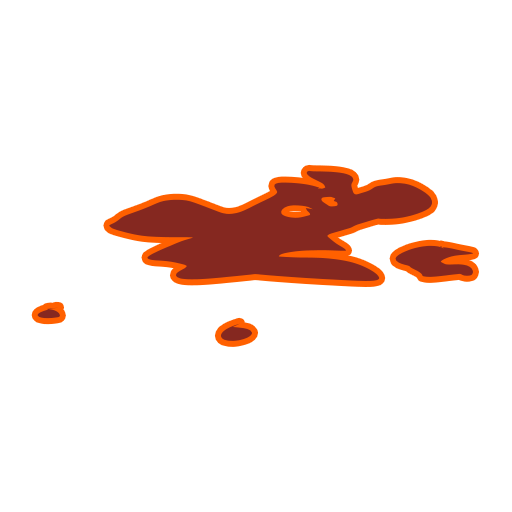
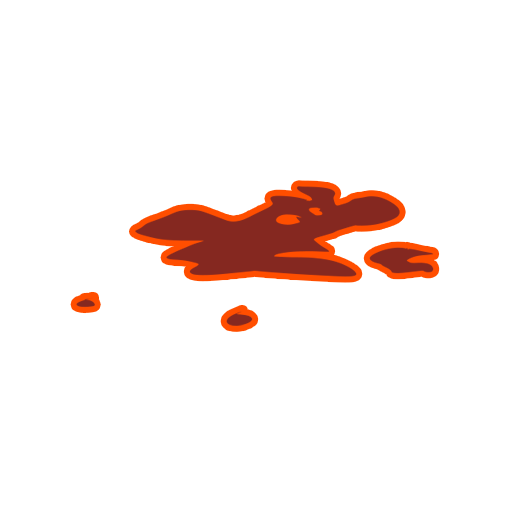
Cursors now working. Art is updated. disabled hiding of item dialog (temporarily?)

Changed region(s): [[0.1875, 0.3125, 0.9375, 0.5625], [0.0625, 0.5625, 0.2188, 0.6562], [0.4062, 0.5938, 0.5, 0.6875]]

diff --git a/FinalProject/kitchenscene.cpp b/FinalProject/kitchenscene.cpp
@@ -17,7 +17,6 @@ KitchenScene::KitchenScene(QWidget *parent, Model* model) :
     setupConnections();
     setupPixmaps();
 
-
 }
 
 KitchenScene::~KitchenScene()
@@ -41,8 +40,22 @@ void KitchenScene::setupConnections(){
     connect(ui->toolbarWidget->oxiclean, &CleaningToolView::toolClickedSignal, model, &Model::toolClickedSlot);
     connect(ui->toolbarWidget->nailpolish_remover, &CleaningToolView::toolClickedSignal, model, &Model::toolClickedSlot);
 
+    connect(model, &Model::setSelectedTool, ui->toolbarWidget->glove, &CleaningToolView::setSelectedSlot);
+    connect(model, &Model::setSelectedTool, ui->toolbarWidget->rag, &CleaningToolView::setSelectedSlot);
+    connect(model, &Model::setSelectedTool, ui->toolbarWidget->bleach, &CleaningToolView::setSelectedSlot);
+    connect(model, &Model::setSelectedTool, ui->toolbarWidget->water, &CleaningToolView::setSelectedSlot);
+    connect(model, &Model::setSelectedTool, ui->toolbarWidget->oxiclean, &CleaningToolView::setSelectedSlot);
+    connect(model, &Model::setSelectedTool, ui->toolbarWidget->nailpolish_remover, &CleaningToolView::setSelectedSlot);
+
+    connect(model, &Model::clearToolSelections, ui->toolbarWidget->glove, &CleaningToolView::clearSelectionSlot);
+    connect(model, &Model::clearToolSelections, ui->toolbarWidget->rag, &CleaningToolView::clearSelectionSlot);
+    connect(model, &Model::clearToolSelections, ui->toolbarWidget->bleach, &CleaningToolView::clearSelectionSlot);
+    connect(model, &Model::clearToolSelections, ui->toolbarWidget->water, &CleaningToolView::clearSelectionSlot);
+    connect(model, &Model::clearToolSelections, ui->toolbarWidget->oxiclean, &CleaningToolView::clearSelectionSlot);
+    connect(model, &Model::clearToolSelections, ui->toolbarWidget->nailpolish_remover, &CleaningToolView::clearSelectionSlot);
+
     connect(model, &Model::clearEvidenceSelections, ui->evidenceDialog, &itemDialog::clearEvidenceSlot);
-    connect(model, &Model::setSelected, ui->knifeLabel, &EvidenceView::setSelected);
+    connect(model, &Model::setSelectedEvidence, ui->knifeLabel, &EvidenceView::setSelected);
     connect(model, &Model::updateDialogBoxSignal, ui->evidenceDialog, &itemDialog::setEvidence);
 }
 
@@ -64,12 +77,12 @@ void KitchenScene::initializeTools(){
     CleaningTool* oxiclean = new CleaningTool("OxiClean: A versitile stain remover containing an active ingredient known as sodium percarbonate. Known to cause hemoglobin proteins to degrade and no longer uptake oxygen.");
     CleaningTool* nailPolishRemover = new CleaningTool("Nail Polish Remover: An organic solvent that can remove the lipids from non-porous substrates if used properly.");
 
-    glove->setPixmaps(QPixmap(":/art/tools/glove"),QPixmap(":/art/tools/glove_highlighted"));
-    rag->setPixmaps(QPixmap(":/art/tools/rag"),QPixmap(":/art/tools/rag"));
-    bleach->setPixmaps(QPixmap(":/art/tools/bleach"),QPixmap(":/art/tools/bleach"));
-    water->setPixmaps(QPixmap(":/art/tools/water"),QPixmap(":/art/tools/water"));
-    oxiclean->setPixmaps(QPixmap(":/art/tools/oxiclean"), QPixmap(":/art/tools/oxiclean"));
-    nailPolishRemover->setPixmaps(QPixmap(":/art/tools/nailpolishremover"), QPixmap(":/art/tools/nailpolishremover"));
+    glove->setPixmaps(QPixmap(":/art/tools/glove"),QPixmap(":/art/tools/glove_highlighted"),QPixmap(":/art/cursor/glove_cursor"));
+    rag->setPixmaps(QPixmap(":/art/tools/rag"),QPixmap(":/art/tools/rag_highlighted"),QPixmap(":/art/cursor/rag_cursor"));
+    bleach->setPixmaps(QPixmap(":/art/tools/bleach"),QPixmap(":/art/tools/bleach_highlighted"),QPixmap(":/art/cursor/bleach_cursor"));
+    water->setPixmaps(QPixmap(":/art/tools/water"),QPixmap(":/art/tools/water_highlighted"),QPixmap(":/art/cursor/water_cursor"));
+    oxiclean->setPixmaps(QPixmap(":/art/tools/oxiclean"), QPixmap(":/art/tools/oxiclean_highlighted"),QPixmap(":/art/cursor/oxiclean_cursor"));
+    nailPolishRemover->setPixmaps(QPixmap(":/art/tools/nailpolishremover"), QPixmap(":/art/tools/nailpolishremover_highlighted"),QPixmap(":/art/cursor/nailpolishremover_cursor"));
 
     ui->toolbarWidget->glove->setType(GLOVE);
     ui->toolbarWidget->rag->setType(RAG);

diff --git a/FinalProject/cleaningtoolview.cpp b/FinalProject/cleaningtoolview.cpp
@@ -15,35 +15,14 @@ void CleaningToolView::setModel(CleaningTool *tool){
 }
 
 void CleaningToolView::enterEvent(QEvent* event){
-    qDebug() << "enter event" << endl;
-   // this->setPixmap(model->icon_selected);
-    this->setPixmap(model->icon_selected);
     emit displayDescription(name);
 }
 
 void CleaningToolView::leaveEvent(QEvent* event){
-    qDebug() << "leave event" << endl;
-    if (!this->model->isSelected){
-      //  this->setPixmap(model->icon);
-    }
     emit hideDescription(name);
 }
 
 void CleaningToolView::mousePressEvent(QMouseEvent* event){
-    qDebug() << "click event" << endl;
-    if(event->button() == Qt::LeftButton && this->model->isSelected == false){
-        highlightTool();
-    }
-    else if (event->button() == Qt::LeftButton && this->model->isSelected == true) {
-        unhighlightTool();
-    }
-//    this->model->isSelected = !this->model->isSelected;
-//    if (this->model->isSelected){
-//        highlightTool();
-//    } else {
-//        this->setPixmap(model->icon);
-//    }
-
     emit toolClickedSignal(name);
 }
 
@@ -52,15 +31,30 @@ void CleaningToolView::setType(Tools type){
 }
 
 void CleaningToolView::highlightTool(){
-    this->setPixmap(model->icon_selected);
+    this->setPixmap(model->getIconHighlighted());
     this->model->isSelected = true;
 
-    QCursor cursor(model->icon);
+    QCursor cursor;
+    if(name == GLOVE){
+        cursor = QCursor(model->getCursor(), 87,26);
+    }else{
+        cursor = QCursor(model->getCursor(), 17, 18);
+    }
+
     QApplication::setOverrideCursor(cursor);
 }
 
+void CleaningToolView::clearSelectionSlot(){
+    unhighlightTool();
+}
+
 void CleaningToolView::unhighlightTool(){
-    this->setPixmap(model->icon);
+    this->setPixmap(model->getIcon());
     this->model->isSelected = false;
-    //QApplication::restoreOverrideCursor();
+}
+
+void CleaningToolView::setSelectedSlot(Tools tool){
+    if(this->name == tool){
+        highlightTool();
+    }
 }

diff --git a/FinalProject/cleaningtool.h b/FinalProject/cleaningtool.h
@@ -11,9 +11,9 @@ public:
     CleaningTool(QString description);
     void setSelected(bool);
     QPixmap getIcon();
-    void setPixmaps(QPixmap icon, QPixmap icon_selected);
-    QPixmap icon;
-    QPixmap icon_selected;
+    QPixmap getCursor();
+    QPixmap getIconHighlighted();
+    void setPixmaps(QPixmap icon, QPixmap icon_selected, QPixmap cursor);
     bool isSelected;
     QString description;
 
@@ -21,6 +21,9 @@ public:
     Tools getType();
 
 private:
+    QPixmap cursor;
+    QPixmap icon;
+    QPixmap icon_selected;
 
     Tools type;
 

diff --git a/FinalProject/model.cpp b/FinalProject/model.cpp
@@ -35,6 +35,8 @@ void Model::addCleaningTool(Tools type, CleaningTool* tool){
 }
 
 void Model::toolClickedSlot(Tools tool){
+    emit clearToolSelections();
+    emit setSelectedTool(tool);
     selectedTool = tool;
 }
 
@@ -59,7 +61,7 @@ void Model::evidenceClicked(EvidenceEnum evidence){
     selectedEvidence = evidence;
     evidences[evidence]->isSelected = true;
     emit clearEvidenceSelections();
-    emit setSelected(evidence);
+    emit setSelectedEvidence(evidence);
     emit updateDialogBoxSignal(evidences[evidence]);
 
 }

diff --git a/FinalProject/cleaningtool.cpp b/FinalProject/cleaningtool.cpp
@@ -14,9 +14,18 @@ QPixmap CleaningTool::getIcon(){
     return icon;
 }
 
-void CleaningTool::setPixmaps(QPixmap icon, QPixmap icon_selected){
+void CleaningTool::setPixmaps(QPixmap icon, QPixmap icon_selected, QPixmap cursor){
     this->icon = icon;
     this->icon_selected = icon_selected;
+    this->cursor = cursor;
+}
+
+QPixmap CleaningTool::getIconHighlighted(){
+    return icon_selected;
+}
+
+QPixmap CleaningTool::getCursor(){
+    return cursor;
 }
 
 Tools CleaningTool::getType(){

diff --git a/FinalProject/model.h b/FinalProject/model.h
@@ -13,8 +13,10 @@ class Model : public QObject
 signals:
     void updateDialogBoxSignal(Evidence*);
     void clearEvidenceSelections();
-    void setSelected(EvidenceEnum);
+    void setSelectedTool(Tools);
+    void setSelectedEvidence(EvidenceEnum);
     void hideDialogSignal();
+    void clearToolSelections();
 public slots:
     void evidenceClicked(EvidenceEnum evidence);
     void toolClickedSlot(Tools tool);

diff --git a/FinalProject/cleaningtoolview.h b/FinalProject/cleaningtoolview.h
@@ -23,10 +23,12 @@ public:
 private:
     Tools name;
 signals:
-    void  toolClickedSignal(Tools);
+    void toolClickedSignal(Tools);
     void displayDescription(Tools);
     void hideDescription(Tools);
 public slots:
+    void clearSelectionSlot();
+    void setSelectedSlot(Tools tool);
 };
 
 #endif // CLEANINGTOOLVIEW_H

diff --git a/FinalProject/iscene.cpp b/FinalProject/iscene.cpp
@@ -30,5 +30,5 @@ void IScene::drawTextLabel(QLabel * textLbl, int size, QString fontName,QString 
 }
 
 void IScene::mouseReleaseEvent(QMouseEvent *event){
-    emit hideDialogSignal();
+    //emit hideDialogSignal();
 }
